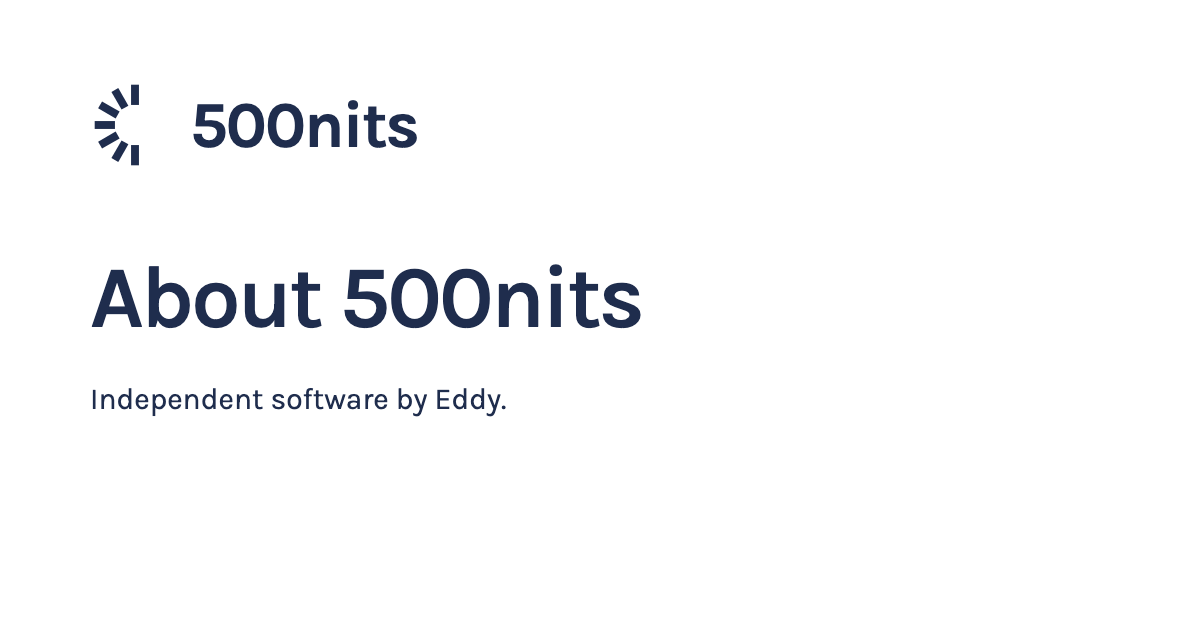
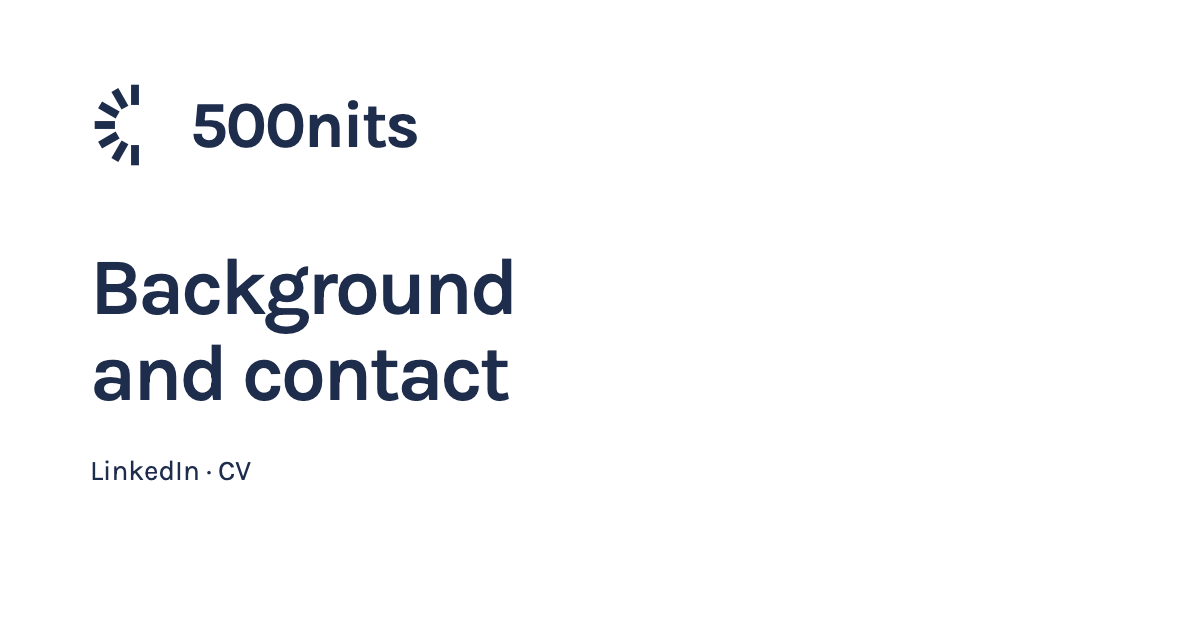
temp1

Changed region(s): [[0.0617, 0.3921, 0.555, 0.6635], [0.0617, 0.7238, 0.2158, 0.7841]]

diff --git a/about/index.html b/about/index.html
@@ -3,25 +3,25 @@
   <head>
     <meta charset="utf-8" />
     <meta name="viewport" content="width=device-width, initial-scale=1" />
-    <title>About 500nits | Software by Eddy</title>
-    <meta name="description" content="Software design and development, experiments with AI agents, and my background in mobile apps, APIs, and automation." />
+    <title>About | 500nits</title>
+    <meta name="description" content="My background in software development, with work across mobile apps, APIs, and automation. LinkedIn profile, CV, and contact details." />
     <meta name="robots" content="index,follow" />
     <meta name="theme-color" content="#1f2d4d" />
     <link rel="canonical" href="https://500nits.com/about/" />
     <link rel="icon" sizes="32x32" href="/favicon.ico" />
     <link rel="icon" type="image/svg+xml" href="/favicon.svg" />
     <meta property="og:type" content="website" />
-    <meta property="og:title" content="About 500nits | Software by Eddy" />
-    <meta property="og:description" content="Software design and development, experiments with AI agents, and my background in mobile apps, APIs, and automation." />
+    <meta property="og:title" content="About | 500nits" />
+    <meta property="og:description" content="My background in software development, with work across mobile apps, APIs, and automation. LinkedIn profile, CV, and contact details." />
     <meta property="og:url" content="https://500nits.com/about/" />
     <meta property="og:image" content="https://500nits.com/assets/about-social.png" />
     <meta property="og:image:width" content="1200" />
     <meta property="og:image:height" content="630" />
-    <meta property="og:image:alt" content="About 500nits. Software design and experiments with AI." />
+    <meta property="og:image:alt" content="500nits. Background and contact. LinkedIn and CV." />
     <meta name="twitter:card" content="summary_large_image" />
     <link rel="preload" href="/assets/fonts/karla-latin.woff2" as="font" type="font/woff2" crossorigin />
     <link rel="stylesheet" href="/hub.css" />
-    <script type="application/ld+json">{"@context": "https://schema.org", "@type": "AboutPage", "name": "About 500nits | Software by Eddy", "url": "https://500nits.com/about/", "description": "Software design and development, experiments with AI agents, and my background in mobile apps, APIs, and automation.", "isPartOf": {"@type": "WebSite", "name": "500nits", "url": "https://500nits.com/"}}</script>
+    <script type="application/ld+json">{"@context": "https://schema.org", "@type": "AboutPage", "name": "About | 500nits", "url": "https://500nits.com/about/", "description": "My background in software development, with work across mobile apps, APIs, and automation. LinkedIn profile, CV, and contact details.", "isPartOf": {"@type": "WebSite", "name": "500nits", "url": "https://500nits.com/"}}</script>
   </head>
   <body>
     <a class="skip-link" href="#main">Skip to content</a>
@@ -39,25 +39,22 @@
       </header>
 
       <main id="main" class="detail-page">
-        <header class="content-header">
-          <h1>About 500nits</h1>
-          <p class="content-lead">I work on software design and development. My current experiments are with AI agents.</p>
-        </header>
         <div class="reading-layout">
-          <nav class="contents" aria-label="On this page">
+          <nav class="contents" aria-label="About links">
+            <a href="https://linkedin.com/in/edoardoc">LinkedIn</a>
             <a href="#background">Background</a>
             <a href="#contact">Contact</a>
           </nav>
           <div class="reading-content">
             <section id="background" aria-labelledby="background-title">
-              <h2 id="background-title">Background</h2>
+              <h1 id="background-title">Background</h1>
               <p>I've worked on software for classified ads, online learning, remote management, healthcare, and SaaS. That includes mobile apps, server-side systems, APIs, and automation.</p>
             </section>
 
             <section id="contact" aria-labelledby="contact-title">
               <h2 id="contact-title">Contact</h2>
               <p>For help with an app or a bug report, email <a href="mailto:apps@500nits.com">apps@500nits.com</a>.</p>
-              <p>You can also find <a href="https://www.linkedin.com/company/500nits/">500nits on LinkedIn</a>.</p>
+              <p><a href="/assets/edoardo-ceccarelli-cv.pdf">CV (PDF)</a></p>
             </section>
           </div>
         </div>

diff --git a/hub.css b/hub.css
@@ -45,9 +45,8 @@ h1, h2, h3 { font-weight: 600; line-height: 1.1; text-wrap: balance; }
 .masthead nav a { display: inline-flex; align-items: center; gap: 8px; padding-block: 10px; text-decoration: none; }
 .masthead nav a:hover { text-decoration: underline; }
 .updates-link { font-weight: 600; }
-.intro { display: grid; grid-template-columns: 1.65fr 1fr; align-items: end; gap: 48px; padding-block: 76px 64px; }
+.intro { padding-block: 76px 64px; }
 h1 { font-size: clamp(40px, 4.8vw, 66px); letter-spacing: -0.04em; line-height: 1.04; }
-.intro-note { max-width: 33ch; padding-bottom: 3px; font-size: 18px; }
 .newsletter { display: grid; grid-template-columns: 0.95fr 1.15fr; gap: 36px; align-items: center; padding: 34px 36px; background: var(--ink); color: var(--paper); scroll-margin-top: 24px; }
 .newsletter ::selection { color: var(--ink); background: var(--paper); }
 .newsletter h2 { font-size: 29px; letter-spacing: -0.03em; }
@@ -92,8 +91,7 @@ button:disabled { opacity: 0.6; cursor: wait; }
 .footer > p { margin-right: auto; }
 
 @media (max-width: 1000px) {
-  .intro { grid-template-columns: 1fr; gap: 26px; padding-block: 58px 44px; }
-  .intro-note { max-width: 54ch; }
+  .intro { padding-block: 58px 44px; }
   .newsletter { grid-template-columns: 1fr 1.1fr; gap: 28px; padding: 30px; }
   .newsletter h2 { font-size: 26px; }
   .form-row { flex-wrap: wrap; }
@@ -109,9 +107,8 @@ button:disabled { opacity: 0.6; cursor: wait; }
   .wordmark img { width: 36px; height: 36px; }
   .masthead nav { width: 100%; justify-content: space-between; gap: 12px; font-size: 14px; }
   .masthead nav a { padding-block: 6px; }
-  .intro { gap: 23px; padding-block: 42px 34px; }
+  .intro { padding-block: 42px 34px; }
   h1 { font-size: clamp(36px, 7.8vw, 49px); }
-  .intro-note { font-size: 17px; }
   .newsletter { grid-template-columns: 1fr; gap: 22px; padding: 25px 22px; }
   .newsletter h2 { font-size: 27px; }
   .newsletter-copy > p { max-width: 40ch; margin-top: 10px; }
@@ -145,7 +142,7 @@ button:disabled { opacity: 0.6; cursor: wait; }
 .reading-content { min-width: 0; max-width: 70ch; font-size: 18px; line-height: 1.65; }
 .reading-content section { scroll-margin-top: 28px; }
 .reading-content section + section { margin-top: 46px; }
-.reading-content h2 { margin-bottom: 18px; font-size: 32px; letter-spacing: -0.03em; }
+.reading-content h1, .reading-content h2 { margin-bottom: 18px; font-size: 32px; line-height: 1.1; letter-spacing: -0.03em; }
 .reading-content p + p { margin-top: 18px; }
 .feature-list { margin: 0; padding-left: 22px; }
 .feature-list li + li { margin-top: 10px; }
@@ -166,7 +163,7 @@ button:disabled { opacity: 0.6; cursor: wait; }
   .content-lead { margin-top: 18px; font-size: 20px; }
   .reading-layout { padding-block: 26px 42px; }
   .reading-content { font-size: 17px; }
-  .reading-content h2 { font-size: 28px; }
+  .reading-content h1, .reading-content h2 { font-size: 28px; }
   .reading-content section + section { margin-top: 36px; }
   .history li { grid-template-columns: 1fr; gap: 8px; }
 }

diff --git a/index.html b/index.html
@@ -4,7 +4,7 @@
     <meta charset="utf-8" />
     <meta name="viewport" content="width=device-width, initial-scale=1" />
     <title>500nits | Software in the AI era</title>
-    <meta name="description" content="I make apps and experiment with AI. Browse my current projects at 500nits, including Doodle Tag, Task for Spaces, and Botify." />
+    <meta name="description" content="My current software projects at 500nits: Doodle Tag, Task for Spaces, and Botify. Get release updates or contact me for app support." />
     <meta name="robots" content="index,follow" />
     <meta name="theme-color" content="#1f2d4d" />
     <link rel="canonical" href="https://500nits.com/" />
@@ -12,12 +12,12 @@
     <link rel="icon" type="image/svg+xml" href="/favicon.svg" />
     <meta property="og:type" content="website" />
     <meta property="og:title" content="500nits | Software in the AI era" />
-    <meta property="og:description" content="I make apps and experiment with AI." />
+    <meta property="og:description" content="My current software projects at 500nits: Doodle Tag, Task for Spaces, and Botify." />
     <meta property="og:url" content="https://500nits.com/" />
     <meta property="og:image" content="https://500nits.com/assets/500nits-social.png" />
     <meta property="og:image:width" content="1200" />
     <meta property="og:image:height" content="630" />
-    <meta property="og:image:alt" content="500nits. Software in the AI era. I make apps and experiment with AI." />
+    <meta property="og:image:alt" content="500nits. Software in the AI era." />
     <meta name="twitter:card" content="summary_large_image" />
     <link rel="preload" href="/assets/fonts/karla-latin.woff2" as="font" type="font/woff2" crossorigin />
     <link rel="stylesheet" href="/hub.css" />
@@ -56,9 +56,6 @@
       <main id="main">
         <section class="intro" aria-labelledby="intro-title">
           <h1 id="intro-title">Software in<br /> the AI era.</h1>
-          <div class="intro-note">
-            <p>I make apps and experiment with AI.</p>
-          </div>
         </section>
 
         <section class="newsletter" id="updates" aria-labelledby="updates-title">

diff --git a/public/index.html b/public/index.html
@@ -1,0 +1,3 @@
+Hello there!:x
+:x
+

diff --git a/DESIGN.md b/DESIGN.md
@@ -121,7 +121,7 @@ Lo-fi means restrained and readable. Ordinary links, horizontal rules, and one i
 
 Karla is locally hosted with Helvetica Neue, Arial, and sans-serif fallbacks. The frontmatter records desktop roles; the system uses a compact, unembellished hierarchy rather than a separate display face.
 
-The main heading is tightly tracked and fluid. Section headings use the headline role; product names use the title role. Newsletter headings are slightly smaller (29px desktop, 26px below 1000px, 27px below 650px). Intro and product descriptions use larger body copy (18px desktop, 17px mobile), with product descriptions limited to 65ch. Metadata is 14px; signup notes and the footer are 13px with signup notes at 1.5 line-height. Navigation and action links are 16px; prominent actions use weight 600. The wordmark uses weight 700.
+The main heading is tightly tracked and fluid. Section headings use the headline role; product names use the title role. Newsletter headings are slightly smaller (29px desktop, 26px below 1000px, 27px below 650px). Product descriptions use larger body copy (18px desktop, 17px mobile), with product descriptions limited to 65ch. Metadata is 14px; signup notes and the footer are 13px with signup notes at 1.5 line-height. Navigation and action links are 16px; prominent actions use weight 600. The wordmark uses weight 700.
 
 Reading-page leads use the reading-lead role with a 58ch maximum width; their size reduces to 20px below 650px. Reading copy uses the reading-body role with a 70ch maximum width, reducing to 17px below 650px while retaining its line-height. Reading section headings inherit the headline role and reduce to 28px on mobile. Chronology headings use the history-title role; dates use the muted history-date role with tabular numerals, and chronology descriptions are 17px. In-page contents links are 15px.
 
@@ -129,11 +129,11 @@ Below 650px, the main heading becomes `clamp(36px, 7.8vw, 49px)`, section headin
 
 ## Layout
 
-The centered page is at most 1080px wide, with 48px gutters on larger screens and 20px gutters below 650px. The desktop introduction, newsletter, product rows, and maker section use asymmetric two-column grids. Generous vertical spacing separates sections; small repeated gaps bind labels, links, and controls.
+The centered page is at most 1080px wide, with 48px gutters on larger screens and 20px gutters below 650px. The homepage introduction is a single heading. The desktop newsletter, product rows, and maker section use asymmetric two-column grids. Generous vertical spacing separates sections; small repeated gaps bind labels, links, and controls.
 
-At 1000px the introduction becomes one column, section headings stack, and form controls can wrap. At 650px the newsletter, product rows, and maker section stack in reading order; controls fill their row, and navigation moves below the wordmark. Newsletter padding reduces from the frontmatter value to 30px at the intermediate breakpoint and 25px 22px on mobile.
+At 1000px section headings stack and form controls can wrap. At 650px the newsletter, product rows, and maker section stack in reading order; controls fill their row, and navigation moves below the wordmark. Newsletter padding reduces from the frontmatter value to 30px at the intermediate breakpoint and 25px 22px on mobile.
 
-Reading pages place a ruled introduction above a two-column layout: a 180px contents column, a flexible reading column, and a 64px gap. The introduction has 72px top and 46px bottom padding; the reading layout has 42px top and 64px bottom padding. Below 800px, contents links wrap above the text with a lower rule and 22px bottom padding; the layout gap becomes 30px. Below 650px, introduction padding becomes 42px 0 30px, reading-layout padding becomes 26px 0 42px, and section spacing reduces from 46px to 36px. The lead's top margin reduces from 22px to 18px.
+The Botify reading page places a ruled introduction above a two-column layout: a 180px contents column, a flexible reading column, and a 64px gap. The introduction has 72px top and 46px bottom padding; the reading layout has 42px top and 64px bottom padding. Below 800px, contents links wrap above the text with a lower rule and 22px bottom padding; the layout gap becomes 30px. Below 650px, introduction padding becomes 42px 0 30px, reading-layout padding becomes 26px 0 42px, and section spacing reduces from 46px to 36px. The lead's top margin reduces from 22px to 18px. About omits the introductory header and opens directly with its LinkedIn and page links beside the reading column. Its Background section supplies the main heading.
 
 ## Elevation & Depth
 
@@ -169,7 +169,7 @@ The reading column uses open text sections, with 18px between paragraphs and ben
 
 ### Newsletter panel
 
-The inverted panel pairs a short invitation with a labeled email field and an action. It has no inline signup note. Submitting reveals a polite live status that requires sending the email and offers a retry link; it does not claim subscription success. Updates links focus the email field. The ordinary mailto form remains available without JavaScript; no hosted newsletter endpoint is configured.
+The inverted panel pairs a short invitation with a labeled email field and a Subscribe action. It has no inline signup note. Submission announces progress and disables the button. A confirmed Nitrosend response shows success; failed requests preserve the email for retry and show a plain error message. Updates links focus the email field. A hidden honeypot stays outside the layout; visitors without JavaScript receive an email contact link.
 
 ## Do's and Don'ts
 
@@ -179,11 +179,11 @@ The inverted panel pairs a short invitation with a labeled email field and an ac
 - **Do** use navy-derived secondary shades for readable metadata and rules.
 - **Do** keep navigation and product destinations available as ordinary HTML links.
 - **Do** preserve visible labels, native validation, and clear keyboard focus.
-- **Do** describe the email request honestly until a verified provider is connected.
+- **Do** show a subscription confirmation only after the signup API acknowledges it.
 
 ### Don't:
 
 - **Don't** add decorative animation, flashes, gradients, or shadows.
 - **Don't** turn product rows into ornamental cards or add rounded control styling.
 - **Don't** introduce a competing accent palette or display font.
-- **Don't** claim an email draft has subscribed its sender.
+- **Don't** show a successful subscription after a failed, timed-out, or unacknowledged request.

diff --git a/docs/newsletter.md b/docs/newsletter.md
@@ -1,18 +1,25 @@
 # 500nits product updates
 
-The homepage has one prominent, labeled email form. Until a newsletter account is connected, it opens an email draft to apps@500nits.com. The visitor must send that message; submitting the form alone does not subscribe anyone. Requests and removals must be handled manually. No subscriber data is stored in the repository or browser.
+The homepage collects email signups directly into Nitrosend list 13128. It uses Nitrosend's public website key named 500nits and the documented POST /v1/public/contacts endpoint. The site stays static; no server or paid form service is required.
 
-## Recommended hosted setup
+## Configuration
 
-Buttondown supports a plain HTML form, so no backend, API key, third-party script, or iframe is necessary. Its published pricing on 2026-10-31 includes the first 100 subscribers free. Verify pricing when opening the account.
+The local .env file is ignored by Git and has owner-only permissions. It contains NITROSEND_PUBLIC_KEY and NITROSEND_LIST_ID. Run `node scripts/configure-newsletter.mjs` after changing either value. The generator writes only those two public signup fields to newsletter-config.js; it rejects keys without the wpkey_live_ prefix.
 
-1. Create a newsletter in an account you own at https://buttondown.com/ and verify your sender email. Choose the newsletter username there; do not assume that `500nits` is available or belongs to you.
-2. Copy the exact form action from the account's embedding settings. Confirm it is the newsletter you control. Buttondown documents the shape as `https://buttondown.com/api/emails/embed-subscribe/YOUR-BUTTONDOWN-USERNAME`.
-3. In index.html, replace the form's mailto action with that verified HTTPS action, retain `method="post"`, remove `enctype="text/plain"`, and add `<input type="hidden" name="embed" value="1" />`.
-4. Change the button to `Subscribe` and replace `#signup-note` with accurate confirmation, unsubscribe, and provider privacy information for the configured newsletter. Keep a visible label and required email input. Add the provider privacy link before collecting addresses there.
-5. Submit natively to Buttondown. Do not use fetch: the response may require CAPTCHA or further validation. newsletter.js already leaves HTTPS actions to the browser.
-6. Test with an email address you control: verify the confirmation flow, subscriber record, and unsubscribe flow. Then run the SEO audit, commit, push, and verify the live form.
+newsletter-config.js is intentionally tracked and browser-visible because Nitrosend website keys are public. The .env file and any unrelated environment values are not published. Never use an account secret key in the browser configuration.
 
-Sources: https://docs.buttondown.com/building-your-subscriber-base and https://buttondown.com/pricing.
+## Form behaviour
 
-The account-specific action URL is the only missing integration detail. Never publish a guessed endpoint, expose an API key, or claim that opening a draft has added a subscriber.
+newsletter.js sends only the email address, destination list ID, homepage source URL, and company honeypot field. It omits browser credentials. The field remains labeled and uses native email validation. Submission disables the button and announces progress. The form shows success only after an HTTP success response containing ok: true. Errors preserve the email field for retry; network requests time out after 15 seconds. No visitor email address is logged or stored in the browser.
+
+Nitrosend's hidden company honeypot is retained. The API ignores filled honeypots without creating contacts or triggering flows. Normal successful signups may enter any list-add automation already configured by the account owner. This integration does not create or activate campaigns or automations. Without JavaScript, the form offers an email contact link.
+
+## Free-plan limits
+
+Checked on 2026-11-02: Nitrosend's current pricing lists unlimited stored contacts and API access on Free, with 5,000 non-expiring starter emails and then 500 emails per month. No card is required. Collection does not require a paid feature. Sending, verification, enrichment, and optional services have separate allowances. The public website key cannot read the account's billing plan or balance, so published Free limits are not proof of the account's current billing state. No billing changes, paid features, verification purchases, or new delivery flows are part of this integration.
+
+Sources: https://nitrosend.com/pricing and https://docs.nitrosend.com/guides/website-signup-forms.
+
+## Verification
+
+Validate the key and CORS with an empty payload, which cannot create a subscriber. A filled-honeypot request can exercise the real public endpoint without creating a contact or triggering a flow. Browser checks should intercept the API request and verify successful, rejected, rate-limited, malformed, offline, timeout, and duplicate-submit handling without adding test contacts.

diff --git a/.impeccable/surfaces/index-html.md b/.impeccable/surfaces/index-html.md
@@ -16,9 +16,9 @@ THESIS: A small independent software label expressed as a simple printed corresp
 
 OWN-WORLD: The existing navy mark, white paper, Karla lettering, generous margins, ordinary underlined links, and a single navy signup region. No gradients, shadows, cards, or decorative animation.
 
-STORY: The visitor meets Eddy, sees a clear invitation to receive product news, and browses the two apps and Botify. Personal writing stays on Eddy's site.
+STORY: The visitor sees the software label, finds an invitation to receive product news, and browses the current projects. About provides the software background, LinkedIn profile, and CV.
 
-FIRST VIEWPORT: A compact mark and wordmark at left, plain navigation at right. A large two-line introduction pairs with a short first-person note. Immediately below, a navy signup block places the invitation beside a labeled email field and subscription action. Mobile stacks these elements in reading order. Signature interaction: the Updates navigation brings focus to the form; no motion beyond native feedback, respecting the user's restrained brief.
+FIRST VIEWPORT: A compact mark and wordmark at left, plain navigation at right. A large two-line headline stands alone. Immediately below, a navy signup block places the invitation beside a labeled email field and subscription action. Mobile stacks these elements in reading order. Signature interaction: the Updates navigation brings focus to the form; no motion beyond native feedback, respecting the user's restrained brief.
 
 FORM: Candidate 4, independent-maker correspondence sheet. seed:9657ab0a8f202f16. The brief pins navy/white, simplicity, and lo-fi restraint; alternatives adding theatrical interface metaphors conflict with those constraints. Other grounded forms considered: small catalog, release bulletin, workshop index, correspondence sheet, software directory, folded leaflet, maker colophon.
 
@@ -26,8 +26,8 @@ FINISH: unreviewed and undocumented is unfinished; this build ends with the fini
 
 ## Open decisions
 
-No newsletter account or endpoint supplied. Use an honest email-request fallback that opens the visitor's mail app, with explicit copy requiring them to send. Do not claim an automated subscription or unsubscribe mechanism until a verified hosted form is connected. Build directly in code for this session; no standing build-path preference is recorded without an answer.
+Nitrosend signup is configured with the user-provided public website key and list 13128. The site posts directly to the documented public contacts endpoint and confirms success only after an acknowledged response. No billing changes or delivery flows are authorized. Build directly in code; no standing build-path preference is recorded without an answer.
 
-Current navigation uses the hub's /about/ page. Do not link to the unfinished personal writing site. The user removed the inline signup note; submission feedback still requires sending the email. The form remains a manual email request until a verified newsletter endpoint is supplied.
+Current navigation uses the hub's /about/ page. Do not link to the unfinished personal writing site. The user removed the inline signup note. Subscription feedback now reflects direct Nitrosend API responses, with progress, success, and recoverable error states.
 
-Positioning: Software in the AI era. The short introduction is about making apps and experimenting with AI, without limiting the label to particular platforms. Leave room for future games without claiming one has launched or that every product uses AI.
+Positioning: Software in the AI era. The user removed the introductory paragraph; the headline stands alone, without limiting the label to particular platforms. Leave room for future games without claiming one has launched or that every product uses AI.

diff --git a/.impeccable/surfaces/about-index-html.md b/.impeccable/surfaces/about-index-html.md
@@ -9,8 +9,10 @@ related_targets: ["hub.css"]
 
 Mode: Read. Scope: about/index.html, shared hub.css. Inherit the existing white/navy Karla design in DESIGN.md, preserving the homepage's masthead, navigation, footer, flat surfaces, ordinary links, and focus states.
 
-Purpose: explain what 500nits is, who makes the software, and the work behind it. Use first-person singular, factual copy from the former About page and current products. Do not invent personality, testimonials, availability for hire, or personal history. Do not link to Eddy's unfinished personal site.
+Purpose: present the software background and contact information, with personal LinkedIn and CV links. Use first-person singular, factual copy from the former About page and current products. Do not invent personality, testimonials, availability for hire, or personal history. Do not link to Eddy's unfinished personal site.
 
-Composition: the existing masthead, an About 500nits heading and brief introduction about software development and experiments with AI agents, then a readable column with Background and Contact sections. The user removed the What I make section and platform list. Simple in-page links provide wayfinding. On phones the contents links wrap above the reading column.
+Composition: the shared masthead, personal LinkedIn link in the About links navigation, then Background as the page's main heading and a Contact section with the public CV PDF. The user removed the standalone About title, introductory paragraph, and What I make section. On phones the links wrap above the reading column.
 
 The latest user request restores the previously deleted local About file and supersedes pending redirects from /about/ to the personal site. /about/ remains canonical and indexable. No new visual world or concept roll is needed: this is a specified extension of the existing system.
+
+The LinkedIn URL https://linkedin.com/in/edoardoc was extracted from the user-provided CV. Publish that PDF at /assets/edoardo-ceccarelli-cv.pdf and link to it from Contact.

diff --git a/PRODUCT.md b/PRODUCT.md
@@ -18,9 +18,9 @@ Visitors exploring Eddy's software and people who want to hear about releases. I
 
 ## Capabilities and Constraints
 
-Static HTML and CSS, with minimal progressive JavaScript where useful. Preserve ordinary HTML navigation, canonical URLs, product facts, accessibility, and the existing repository release process. The hub's About page at https://500nits.com/about/ introduces Eddy's software work. Eddy's personal writing site is not ready to link from the hub.
+Static HTML and CSS, with minimal progressive JavaScript where useful. Preserve ordinary HTML navigation, canonical URLs, product facts, accessibility, and the existing repository release process. The hub's About page at https://500nits.com/about/ contains Eddy's software background, personal LinkedIn profile, CV, and contact details. Eddy's personal writing site is not ready to link from the hub.
 
-The email newsletter provider and account are undecided. Never invent a working subscription endpoint or show an unearned success state.
+Email signups use Nitrosend's documented public website API and the user-provided destination list 13128. Store local configuration in ignored .env and publish only the generated public website-key configuration. Never use an account secret key in browser code or show subscription success before an acknowledged API response. Do not enable paid features or delivery automations without an explicit request.
 
 ## Brand Commitments
 
